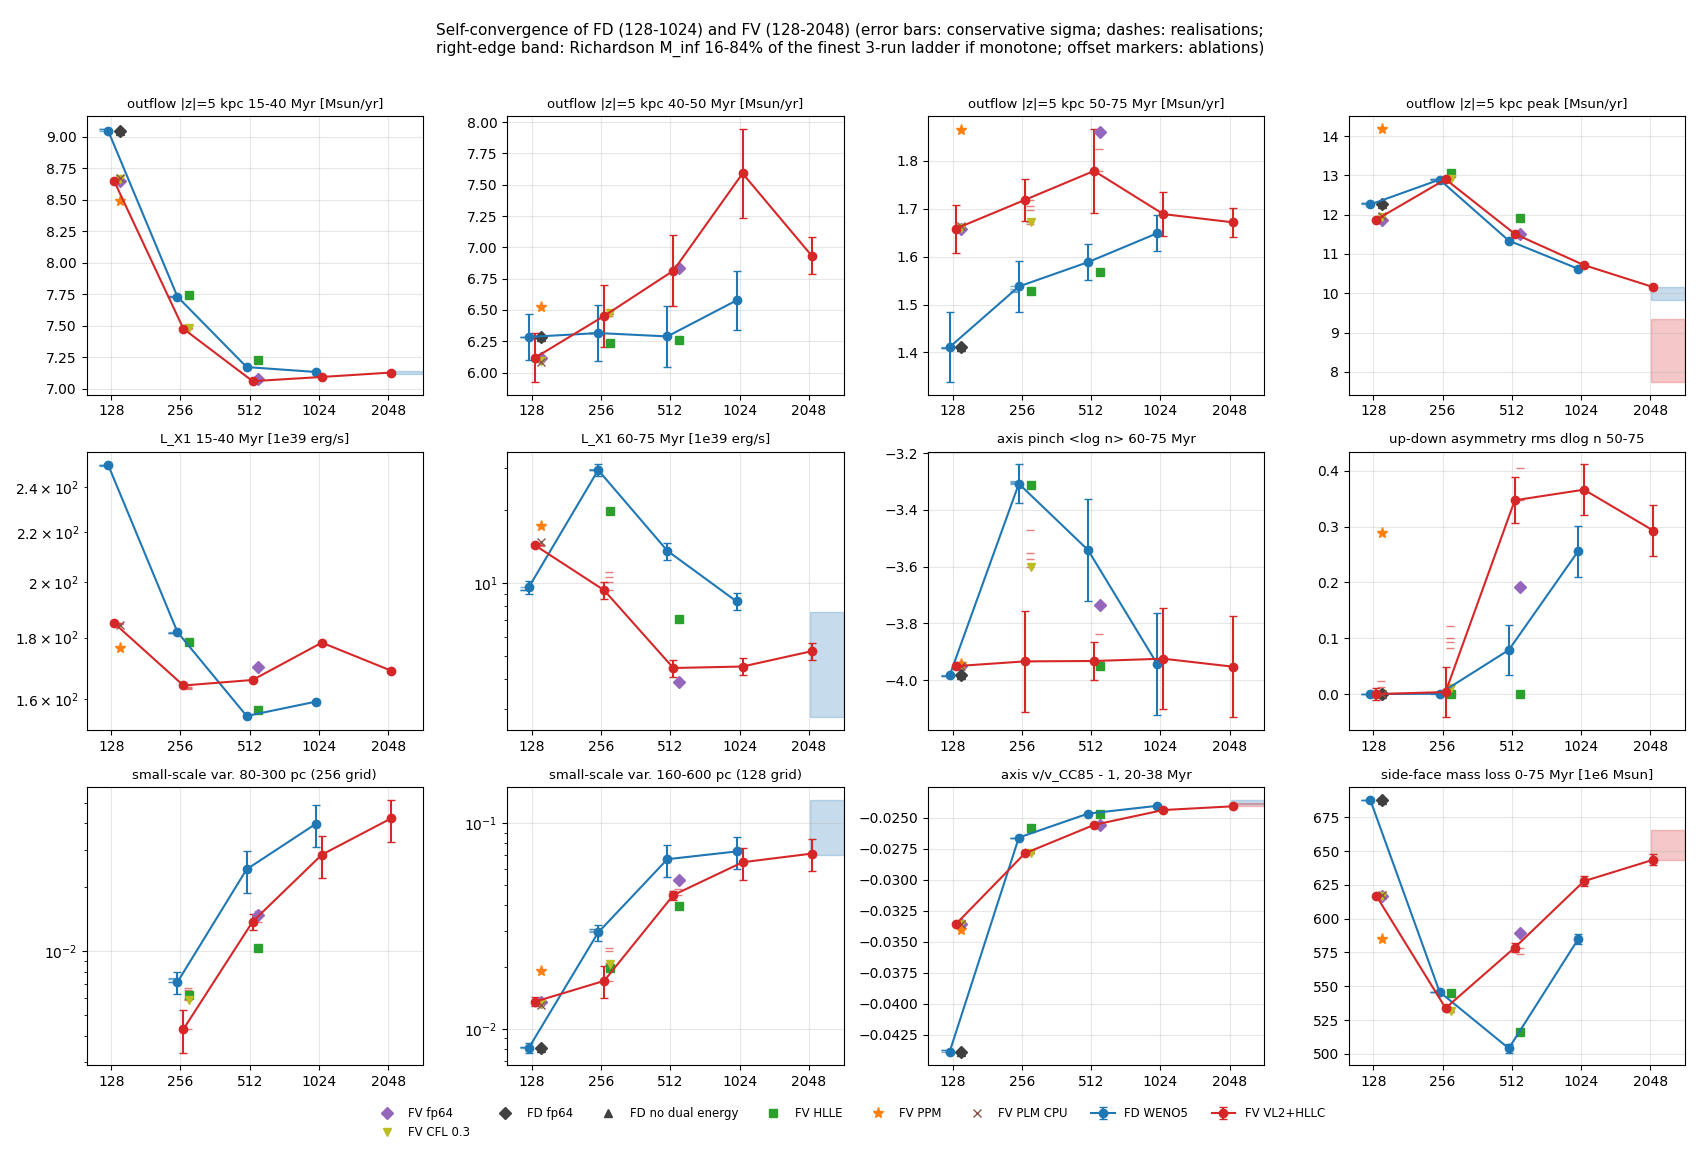
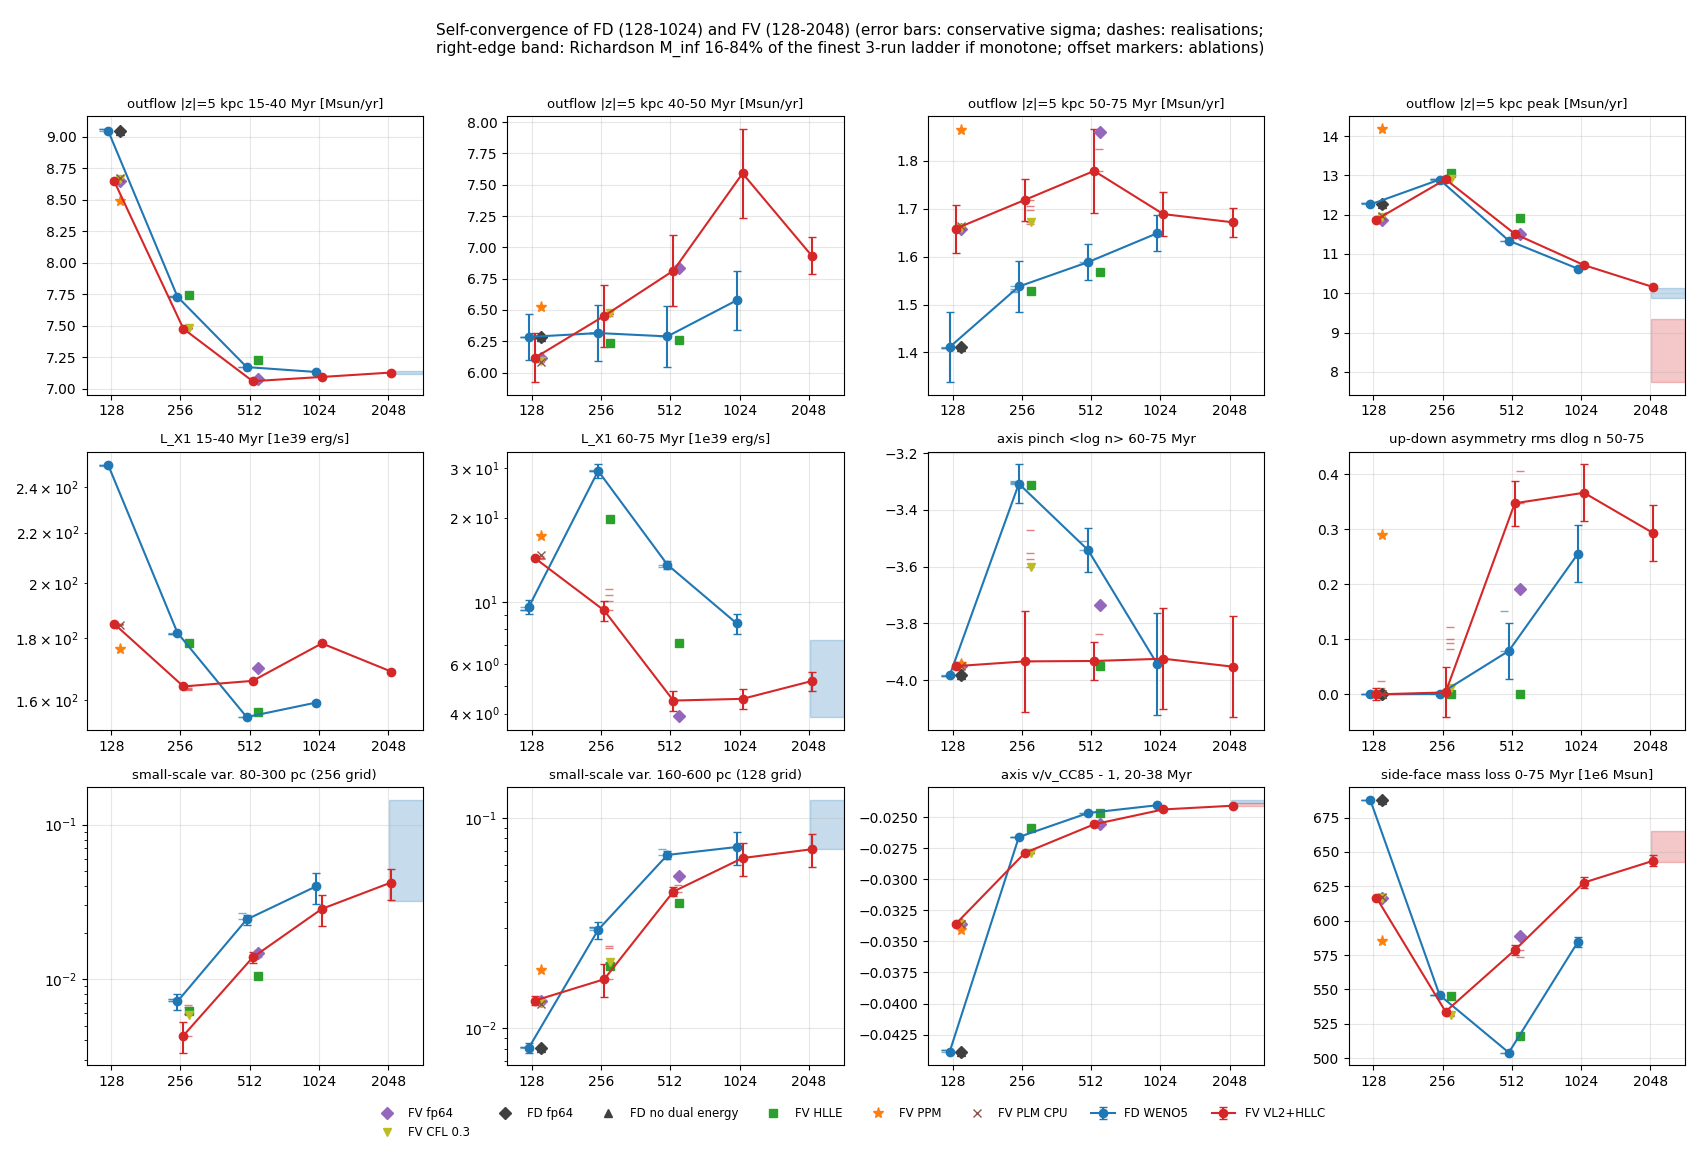
cgols_fvfd_synthesis: FD-512 seed 1 (HoreKa 117181) as the first measured FD-512 sigma

diff --git a/pytests/self_gravity/cgols/cgols_fvfd_synthesis.py b/pytests/self_gravity/cgols/cgols_fvfd_synthesis.py
@@ -26,7 +26,7 @@ Per run (cached in data/studies/fvfd_synthesis_metrics.json, --recompute to rebu
 
 Noise. sigma_traj = sample std over the realisations of one scheme at one N: IC-noise seeds 0-3, the checkpoint-
 segmented vs unsegmented baselines and reruns (fp32 only). The IC noise (1e-3) perturbs less than checkpoint
-segmentation does, so this is a LOWER bound. Where a scheme/N has no ensemble (FD-512, FD-1024, FV-1024) it is
+segmentation does, so this is a LOWER bound. Where a scheme/N has no ensemble (FD-1024, FV-1024) it is
 extrapolated as "noise does not shrink with N, and FD is as noisy as FV": the largest sigma measured for either
 scheme at any N' <= N (relative for positive fluxes/luminosities, absolute for log or shape metrics); the
 pessimistic variant also applies the FV 256 -> 512 growth once more at 1024. sigma_t is the standard error of a
@@ -61,6 +61,9 @@ ablations (HLLE, fp64, CFL 0.3, PPM) are listed as offsets from their FV baselin
     # self-convergence table adds the FV 512 -> 1024 -> 2048 ladder (the convergence figure's M_inf band uses the
     # finest ladder per scheme). A run is re-measured when its frame count changes or its emission / 3D cache
     # appears; the other cached runs are reused.
+
+    # 2026-11-04: + FD-512 seed 1 (RUNS["FD512s1"], HoreKa job 117181; emission cache from cgols_emission.py --tag
+    # _A512s1 --source frames): FD-512 sigma_traj is measured (2 members) instead of extrapolated.
 
 Writes figures/cgols/comparisons/fvfd_summary_significance.png, fvfd_convergence.png and fvfd_cost.png and prints
 the markdown tables. CPU only, numpy + scipy + matplotlib (no jax).
@@ -132,6 +135,8 @@ RUNS = {
                   f"{LOGS}/diagnostics/cgols_diag_A256fvhlle.log"),
     "FV256c03": ("FV", 256, "CFL 0.3", f"{DIAG}/A256c03fv", None, None, f"{LOGS}/diagnostics/cgols_diag_A256c03fv.log"),
     "FD512": ("FD", 512, "base", "cgols_snapshots_A512", "_A512", "_A512", f"{LOGS}/cgols_diag_A512.log"),
+    # HoreKa job 117181 (2 H200, split (1, 2, 1, 1), code 494d1b5): IC seed 1, the first measured FD-512 sigma
+    "FD512s1": ("FD", 512, "ens", "cgols_snapshots_A512s1", "_A512s1", None, f"{LOGS}/cgols_diag_A512s1.log"),
     "FV512": ("FV", 512, "base", "cgols_snapshots_A512fvf32", "_A512fvf32", "_A512fvf32",
               f"{LOGS}/cgols_diag_A512fvf32.log"),
     "FV512b": ("FV", 512, "ens", f"{DIAG}/A512fv", None, None, f"{LOGS}/diagnostics/cgols_diag_A512fv.log"),
